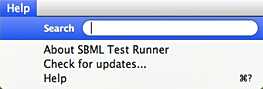
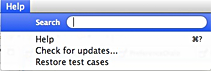
Updated help text to mention the new "Restore" option present in the Help menu.

diff --git a/src/front-ends/standalone/testsuite-ui/src/org/sbml/testsuite/ui/resources/help/menus.html b/src/front-ends/standalone/testsuite-ui/src/org/sbml/testsuite/ui/resources/help/menus.html
@@ -153,10 +153,10 @@ img {
 <li><p><strong>Run By Tag and/or Number</strong>: This menu item invokes a dialog that allows you to selectively run only those test cases that contain specific tags or have specific test numbers.</p></li>
 <li><p><strong>Run All Tests</strong>: This is a synonym for selecting all the test cases and then invoking the <strong>Run</strong> menu option.</p></li>
 <li><p><strong>Run All Supported Tests</strong>: This menu item causes the Test Runner to run (or rerun) those test cases which the application wrapper is <em>not</em> configured in some way to exclude; i.e., those tests which are not among the ones excluded due to unsupported tags or SBML Level/Version combination.</p></li>
-<li><p><strong>Run All New Tests</strong>: This menu item causes the Test Runner to run (or rerun) just those test cases for which the application wrapper has not produced a result. This can be useful during development of a wrapper or application, if you make a change that allows the application to produce a result where it didn&#8217;t before and you wish to see the consequences.</p></li>
-<li><p><strong>Refresh Selected Result(s)</strong>: This menu item causes the Test Runner to re-read the results files for the selected test cases. This is useful if you have done something to modify or update the results from outside of the Test Runner.</p></li>
+<li><p><strong>Run All New Tests</strong>: This menu item causes the Test Runner to run (or rerun) just those test cases for which the application wrapper has not produced a result. (These are cases for which the results are labeled with a gray color.) This can be useful during development of a wrapper or application to see the consequences of a change, for example if you make a change to the wrapper configuration that allows the application to produce a result where it didn&#8217;t before.</p></li>
+<li><p><strong>Refresh Selected Result(s)</strong>: This menu item causes the Test Runner to reread the results files for the selected test cases. This is useful if you have done something to modify or update the results from outside of the Test Runner.</p></li>
 <li><p><strong>Delete Selected Result(s)</strong>: Selecting this menu item causes the Test Runner to delete the results files for the corresponding test cases. This is a destructive operation.</p></li>
-<li><p><strong>View Process Output</strong>: This menu item allows you to see the output (if any) produced by the wrapper for a given test case. This can be very helpful when debuggging of test wrappers.</p></li>
+<li><p><strong>View Process Output</strong>: This menu item allows you to see the output (if any) produced by the wrapper for a given test case. This can be very helpful when debugging test wrappers.</p></li>
 </ul>
 
 <p>Finally, the last menu in the menu bar is the <strong>Help</strong> menu:</p>
@@ -167,7 +167,8 @@ img {
 
 <ul>
 <li><p><strong>Help</strong>: Selecting this menu item invokes the built-in help system to display the information you are currently reading.</p></li>
-<li><p><strong>About SBML Test Runner</strong>: This menu item displays a dialog describing the version and other information about the running copy of the SBML Test Runner.</p></li>
 <li><p><strong>Check for Updates&#8230;</strong>: Selecting this menu item causes the Test Runner to check for updated test cases. It does this by contacting the repository used to distribute the SBML Test Suite test case archives (currently, SourceForge.net) comparing the date of the available archive to the date of the tests being used by this copy of the Test Runner, and if the cases on the repository are newer, downloading and unpacking the test case archive to replace the cases that the Test Runner uses.</p></li>
+<li><p><strong>Restore test cases</strong>: Reinstall the internally-bundled archive of SBML Test Suite test cases. This is useful if something has happened to damage the currently-installed test cases, or a previous update or unpacking operation was interrupted and left only a partial collection of test cases. (Note that invoking this operation will store the resulting test cases in the default location, regardless of the test case directory configured in the <em>Preferences</em> dialog; this is done to avoid overwriting any special test case directory the user may have set.)</p></li>
+<li><p>(On Windows and Linux only) <strong>About SBML Test Runner</strong>: This menu item displays a dialog describing the version and other information about the running copy of the SBML Test Runner.</p></li>
 </ul>
 </body> </html>
